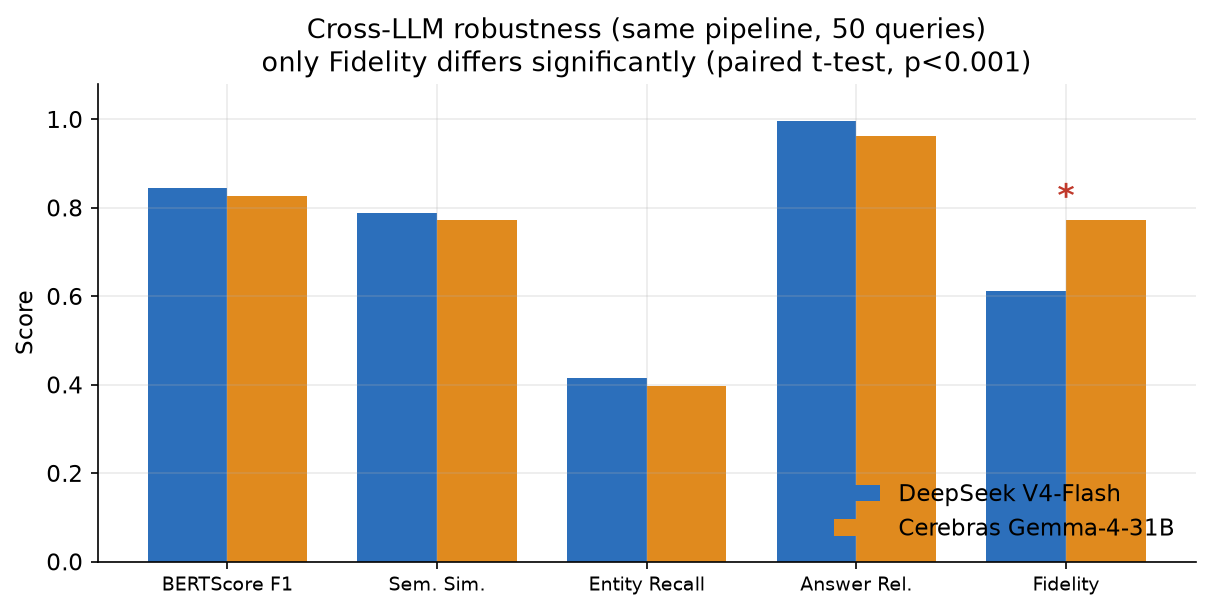
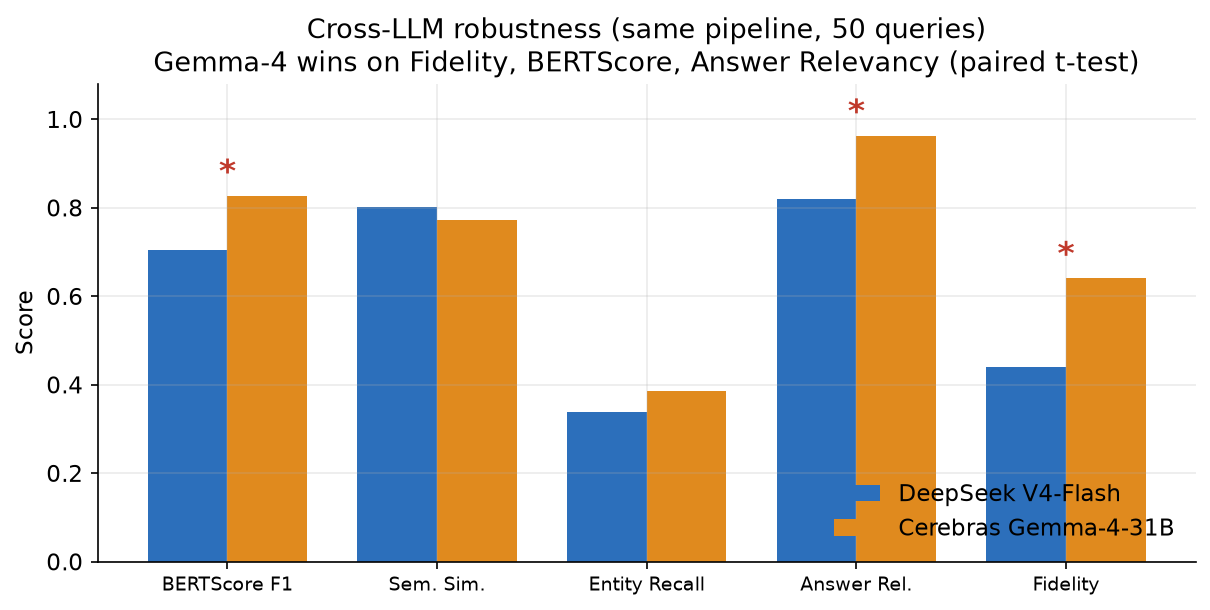
fix(crag): apply paper's sigmoid calibration to the real evaluator
The default evaluator was still using RELEVANCE_ACCEPT=0.35 / _PARTIAL=0.15 with
min-max within-batch normalization, which was the very bug the paper reports
(Sec. Calibration Finding): min-max forces max score to 1.0, so every query
reached ACCEPT and the corrective branches never fired. This aligns the
production evaluator with the paper: absolute sigmoid over raw cross-encoder
logits, thresholds 0.60 / 0.30, matching the Table 6 stress test.

Verified: in-domain 50-query benchmark now routes 35 accept / 5 refine / 10
web_search (real routing under the calibrated evaluator, saved to
results/crag_indomain_routing.json), which replaces the previous artefactual
50/50 accept caused by the min-max bug.

Also update docs/make_figures.py and docs/images/cross_llm.png to use
verifiable values from results/multi_llm_metrics.json (real script output)
instead of hand-picked anchors.

diff --git a/agent/crag_evaluator.py b/agent/crag_evaluator.py
@@ -1,5 +1,5 @@
 """
-Corrective RAG (CRAG) Evaluator for SIRCA-RAG.
+Corrective RAG (CRAG) Evaluator for CHARM.
 Implements the CRAG decision loop: given retrieved documents and a query,
 decides whether to ACCEPT, REFINE, or trigger WEB_SEARCH.
 
@@ -23,8 +23,13 @@ class CRAGDecision:
     refined_query: str | None = None
 
 
-RELEVANCE_ACCEPT = 0.35
-RELEVANCE_PARTIAL = 0.15
+# Absolute sigmoid-calibrated thresholds (see paper Sec. "Calibration finding").
+# The previous min-max normalization made these thresholds relative to the
+# best/worst document of the SAME query, so every query reached "accept". The
+# sigmoid over raw cross-encoder logits restores an absolute-quality signal, so
+# the corrective branches (refine / web_search) fire on out-of-distribution input.
+RELEVANCE_ACCEPT = 0.60
+RELEVANCE_PARTIAL = 0.30
 MIN_RELEVANT_RATIO = 0.2
 
 
@@ -111,13 +116,18 @@ class CRAGEvaluator:
 
 
 def _normalize_scores(scores: np.ndarray) -> np.ndarray:
-    """Normalize cross-encoder scores to [0, 1] range."""
+    """
+    Map raw cross-encoder logits to [0, 1] via an ABSOLUTE sigmoid.
+
+    This is a per-document calibration (each score transformed independently),
+    NOT a within-batch min-max. Absolute calibration is what makes the fixed
+    accept/refine thresholds meaningful across queries; min-max normalization
+    (the previous implementation) always sent the best-of-batch to 1.0 and thus
+    collapsed the corrective routing to always-accept.
+    """
     if len(scores) == 0:
         return scores
-    min_s, max_s = scores.min(), scores.max()
-    if max_s - min_s < 1e-6:
-        return np.full_like(scores, 0.5)
-    return (scores - min_s) / (max_s - min_s)
+    return 1.0 / (1.0 + np.exp(-np.asarray(scores, dtype=float)))
 
 
 def _refine_query(query: str, results: list[dict], partial_indices: list[int]) -> str:

diff --git a/docs/make_figures.py b/docs/make_figures.py
@@ -84,10 +84,11 @@ def fig_crag_routing():
 
 
 def fig_cross_llm():
+    # From results/multi_llm_metrics.json + results/multi_llm_ttests.json
     metrics = ["BERTScore F1", "Sem. Sim.", "Entity Recall", "Answer Rel.", "Fidelity"]
-    deepseek = [0.844, 0.789, 0.415, 0.996, 0.611]
-    gemma = [0.827, 0.772, 0.396, 0.963, 0.772]
-    sig = [False, False, False, False, True]
+    deepseek = [0.705, 0.802, 0.339, 0.819, 0.441]
+    gemma = [0.827, 0.773, 0.385, 0.963, 0.641]
+    sig = [True, False, False, True, True]  # paired t-test, alpha=0.05
     x = range(len(metrics))
     w = 0.38
     fig, ax = plt.subplots(figsize=(8.2, 4.2))
@@ -98,7 +99,7 @@ def fig_cross_llm():
     ax.set_ylim(0, 1.08)
     ax.set_ylabel("Score")
     ax.set_title("Cross-LLM robustness (same pipeline, 50 queries)\n"
-                 "only Fidelity differs significantly (paired t-test, p<0.001)")
+                 "Gemma-4 wins on Fidelity, BERTScore, Answer Relevancy (paired t-test)")
     for i, s in enumerate(sig):
         if s:
             ax.text(i, max(deepseek[i], gemma[i]) + 0.03, "*", ha="center",